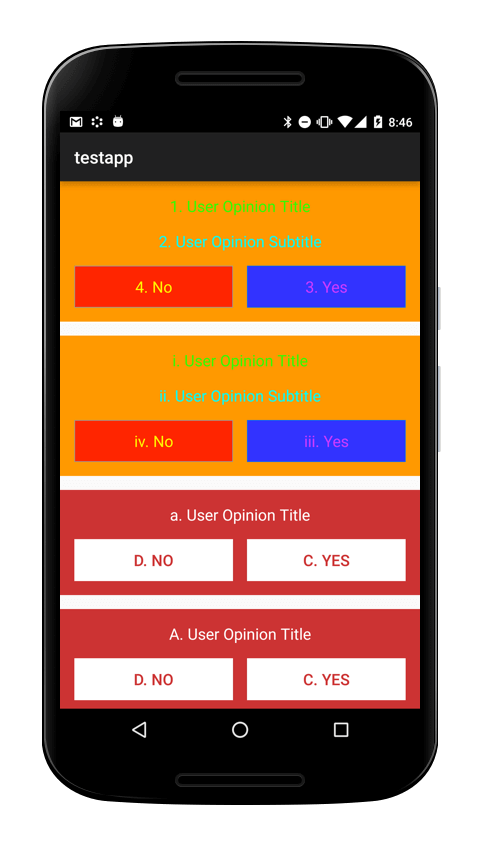
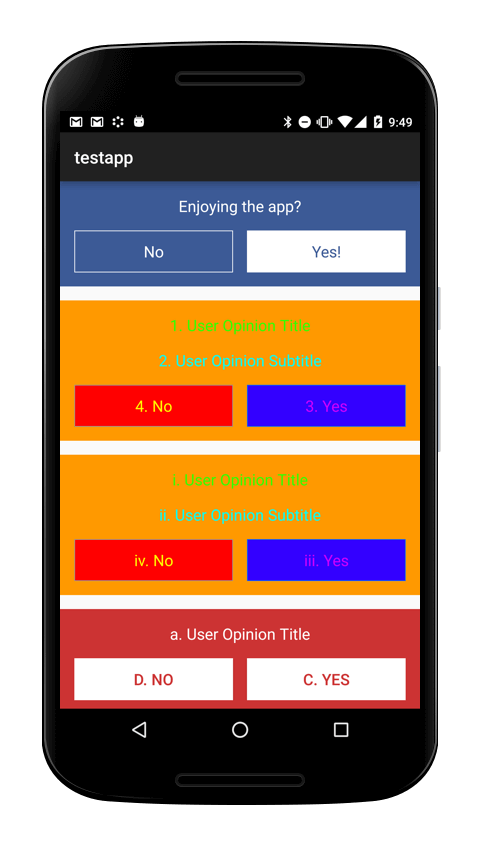
Update test app with default

diff --git a/testapp/src/main/java/com/github/stkent/testapp/MainActivity.java b/testapp/src/main/java/com/github/stkent/testapp/MainActivity.java
@@ -20,6 +20,11 @@ public class MainActivity extends AppCompatActivity {
         super.onCreate(savedInstanceState);
         setContentView(R.layout.activity_main);
 
+
+        Amplify.get(this).promptIfReady(
+                this,
+                (IPromptView) findViewById(R.id.default_layout_prompt_view_no_customization));
+
         Amplify.get(this).promptIfReady(
                 this,
                 (IPromptView) findViewById(R.id.default_layout_prompt_view_xml_config));

diff --git a/README.md b/README.md
@@ -234,9 +234,13 @@ public class ExampleApplication extends Application {
 
 ## Prompt UI
 
-_amplify_ provides two configurable prompt UIs. You can see examples of each in the test application associated with this project. In this app, distinct colors and strings are set on every attribute to allow you to easily see the effects:
+_amplify_ provides two configurable prompt UIs. The test app associated with this project includes examples of these prompts with:
 
-| Test app UI, use me for testing! |
+- no custom configuration applied;
+- distinct colors and strings set on every attribute in xml;
+- distinct colors and strings set on every attribute in code;
+
+| Test app UI; use me to explore!  |
 |----------------------------------|
 | ![](assets/testapp.png)          |
 
